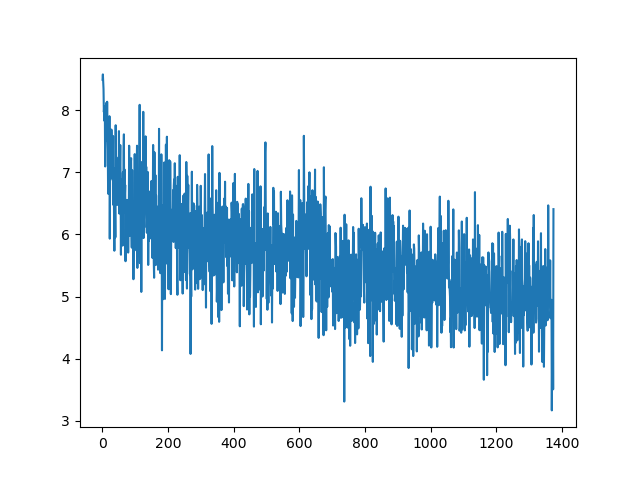
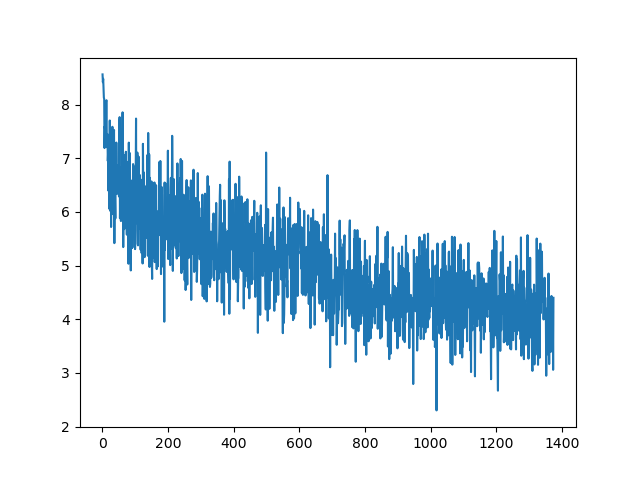
tmp

diff --git a/run_cite.py b/run_cite.py
@@ -46,7 +46,8 @@ def parse_args():
     parser.add_argument('--dataset', type=str, default='AASC',choices=['AASC','PeerRead'],help="AASC or PeerRead")
     parser.add_argument('--batch_size', type=int, default=16, help="batch size")
     parser.add_argument('--frequency', type=int, default=5, help="frequency to remove rare entity")
-    parser.add_argument('--lr', type=float, default=8e-5, help="learning rate")
+    parser.add_argument('--lr', type=float, default=5e-5, help="learning rate")
+    parser.add_argument('--gamma', type=float, default=0.8, help="gamma for StructureAwareCrossEntropy")
     parser.add_argument('--epoch', type=int, default=5, help="number of epochs")
     parser.add_argument('--WINDOW_SIZE', type=int, default=125,choices=[125,250], help="the length of context length")
     parser.add_argument('--MAX_LEN', type=int, default=256,choices=[256,512], help="MAX length of the input")
@@ -358,13 +359,13 @@ def main():
     
     # load parameters
     if args.pretrained_model == "scibert":
-        model = PTBCN.from_pretrained(settings.pretrained_scibert_path,num_ent=len(ent_vocab),MAX_LEN=args.MAX_LEN,final_layer=args.final_layer,loss_type=args.loss_type,adj=adj)
+        model = PTBCN.from_pretrained(settings.pretrained_scibert_path,num_ent=len(ent_vocab),MAX_LEN=args.MAX_LEN,final_layer=args.final_layer,loss_type=args.loss_type,adj=adj,gamma=args.gamma)
     elif args.pretrained_model == "bert":
-        model = PTBCN.from_pretrained('bert-base-uncased',num_ent=len(ent_vocab),MAX_LEN=args.MAX_LEN,final_layer=args.final_layer,loss_type=args.loss_type,adj=adj)
+        model = PTBCN.from_pretrained('bert-base-uncased',num_ent=len(ent_vocab),MAX_LEN=args.MAX_LEN,final_layer=args.final_layer,loss_type=args.loss_type,adj=adj,gamma=args.gamma)
     else:
-        model = PTBCN.from_pretrained('bert-base-uncased',num_ent=len(ent_vocab),MAX_LEN=args.MAX_LEN,final_layer=args.final_layer,loss_type=args.loss_type,adj=adj)
-        for param in model.parameters():
-            nn.init.uniform_(param,a=0.0,b=0.1)
+        model = PTBCN.from_pretrained('bert-base-uncased',num_ent=len(ent_vocab),MAX_LEN=args.MAX_LEN,final_layer=args.final_layer,loss_type=args.loss_type,adj=adj,gamma=args.gamma)
+        for i,param in enumerate(model.parameters()):
+            nn.init.normal_(param,mean=0.0,std=0.2)
     model.change_type_embeddings()
     model.cuda()
     model.train()
@@ -381,9 +382,12 @@ def main():
     scheduler = optim.lr_scheduler.StepLR(optimizer, step_size=1, gamma=1.0)
 
     #model_name = "model_"+"epoch"+str(args.epoch)+"_batchsize"+str(args.batch_size)+"_learningrate"+str(args.lr)+"_data"+str(args.dataset)+"_WINDOWSIZE"+str(args.WINDOW_SIZE)+"_MAXLEN"+str(args.MAX_LEN)+"_pretrainedmodel"+str(args.pretrained_model)+"_"+args.mask_type+"_"+args.final_layer+"_"+args.loss_type+".bin"
-    model_name = "model_"+"epoch"+str(args.epoch)+"_batchsize"+str(args.batch_size)+"_learningrate"+str(args.lr)+"_data"+str(args.dataset)+"_WINDOWSIZE"+str(args.WINDOW_SIZE)+"_MAXLEN"+str(args.MAX_LEN)+"_pretrainedmodel"+str(args.pretrained_model)+"_"+args.mask_type+"_"+args.final_layer+"_"+args.loss_type+"_number1.bin"
+    model_name = "model_"+"epoch"+str(args.epoch)+"_batchsize"+str(args.batch_size)+"_learningrate"+str(args.lr)+"_data"+str(args.dataset)+"_WINDOWSIZE"+str(args.WINDOW_SIZE)+"_MAXLEN"+str(args.MAX_LEN)+"_pretrainedmodel"+str(args.pretrained_model)+"_"+args.mask_type+"_"+args.final_layer+"_"+args.loss_type+"_number5.bin"
     pretrained_model_path = os.path.join(settings.model_path,model_name)
     print(model_name)
+    if args.loss_type == "StructureAwareCrossEntropy":
+        print("StructureAwareCrossEntropyLoss: gamma")
+        print(args.gamma)
     print("train start")
     if args.train:
         losses = []
@@ -410,14 +414,14 @@ def main():
             if epoch % 5 == 0 or epoch == args.epoch:
                 #save model
                 #model_name = "model_"+"epoch"+str(epoch)+"_batchsize"+str(args.batch_size)+"_learningrate"+str(args.lr)+"_data"+str(args.dataset)+"_WINDOWSIZE"+str(args.WINDOW_SIZE)+"_MAXLEN"+str(args.MAX_LEN)+"_pretrainedmodel"+str(args.pretrained_model)+"_"+args.mask_type+"_"+args.final_layer+"_"+args.loss_type+".bin"
-                model_name = "model_"+"epoch"+str(epoch)+"_batchsize"+str(args.batch_size)+"_learningrate"+str(args.lr)+"_data"+str(args.dataset)+"_WINDOWSIZE"+str(args.WINDOW_SIZE)+"_MAXLEN"+str(args.MAX_LEN)+"_pretrainedmodel"+str(args.pretrained_model)+"_"+args.mask_type+"_"+args.final_layer+"_"+args.loss_type+"_number1.bin"
+                model_name = "model_"+"epoch"+str(epoch)+"_batchsize"+str(args.batch_size)+"_learningrate"+str(args.lr)+"_data"+str(args.dataset)+"_WINDOWSIZE"+str(args.WINDOW_SIZE)+"_MAXLEN"+str(args.MAX_LEN)+"_pretrainedmodel"+str(args.pretrained_model)+"_"+args.mask_type+"_"+args.final_layer+"_"+args.loss_type+"_number5.bin"
                 torch.save(model.state_dict(),os.path.join(settings.model_path,model_name))
     print("train end")
     if args.predict:
         for i in range(1,args.epoch//5+1):
             epoch = i*5
             #model_name = "model_"+"epoch"+str(epoch)+"_batchsize"+str(args.batch_size)+"_learningrate"+str(args.lr)+"_data"+str(args.dataset)+"_WINDOWSIZE"+str(args.WINDOW_SIZE)+"_MAXLEN"+str(args.MAX_LEN)+"_pretrainedmodel"+str(args.pretrained_model)+"_"+args.mask_type+"_"+args.final_layer+"_"+args.loss_type+".bin"
-            model_name = "model_"+"epoch"+str(epoch)+"_batchsize"+str(args.batch_size)+"_learningrate"+str(args.lr)+"_data"+str(args.dataset)+"_WINDOWSIZE"+str(args.WINDOW_SIZE)+"_MAXLEN"+str(args.MAX_LEN)+"_pretrainedmodel"+str(args.pretrained_model)+"_"+args.mask_type+"_"+args.final_layer+"_"+args.loss_type+"_number1.bin"
+            model_name = "model_"+"epoch"+str(epoch)+"_batchsize"+str(args.batch_size)+"_learningrate"+str(args.lr)+"_data"+str(args.dataset)+"_WINDOWSIZE"+str(args.WINDOW_SIZE)+"_MAXLEN"+str(args.MAX_LEN)+"_pretrainedmodel"+str(args.pretrained_model)+"_"+args.mask_type+"_"+args.final_layer+"_"+args.loss_type+"_number5.bin"
             model.load_state_dict(torch.load(os.path.join(settings.model_path,model_name)))
             model.eval()
             #save_embeddings(model,ent_vocab,args.MAX_LEN,args.WINDOW_SIZE)

diff --git a/load_node_classification.py b/load_node_classification.py
@@ -130,8 +130,11 @@ def load_raw_data(args):
     return X_train,y_train,X_test,y_test
 
 #convert each node into input_id
-def convert_data(datas,ent_vocab,MAX_LEN,WINDOW_SIZE):
-    tokenizer =  BertTokenizer.from_pretrained(settings.pretrained_scibert_path, do_lower_case =False)
+def convert_data(args,datas,ent_vocab,MAX_LEN,WINDOW_SIZE):
+    if args.pretrained_model == "scibert":
+        tokenizer =  BertTokenizer.from_pretrained(settings.pretrained_scibert_path, do_lower_case =False)
+    else:
+        tokenizer =  BertTokenizer.from_pretrained("bert-base-uncased", do_lower_case =False)
     converted_datas = []
     converted_elements = []
     for i,elements in enumerate(datas):
@@ -269,14 +272,14 @@ def load_data_SVM_with_context(args,model,ent_vocab,MAX_LEN,WINDOW_SIZE):
         with open(converted_path_train) as f:
             X_train = json.load(f)
     else:
-        X_train = convert_data(X_train,ent_vocab,MAX_LEN,WINDOW_SIZE)
+        X_train = convert_data(args,X_train,ent_vocab,MAX_LEN,WINDOW_SIZE)
         with open(converted_path_train,"w") as f:
             json.dump(X_train,f)
     if os.path.exists(converted_path_test):
         with open(converted_path_test) as f:
             X_test = json.load(f)
     else:
-        X_test = convert_data(X_test,ent_vocab,MAX_LEN,WINDOW_SIZE)
+        X_test = convert_data(args,X_test,ent_vocab,MAX_LEN,WINDOW_SIZE)
         with open(converted_path_test,"w") as f:
             json.dump(X_test,f)
     X_train = get_embeddings(model,X_train,MAX_LEN,WINDOW_SIZE)
@@ -323,14 +326,14 @@ def load_data_SVM_with_context_all_layer(model,ent_vocab,MAX_LEN,WINDOW_SIZE):
         with open(converted_path_train) as f:
             X_train = json.load(f)
     else:
-        X_train = convert_data(X_train,ent_vocab,MAX_LEN,WINDOW_SIZE)
+        X_train = convert_data(args,X_train,ent_vocab,MAX_LEN,WINDOW_SIZE)
         with open(converted_path_train,"w") as f:
             json.dump(X_train,f)
     if os.path.exists(converted_path_test):
         with open(converted_path_test) as f:
             X_test = json.load(f)
     else:
-        X_test = convert_data(X_test,ent_vocab,MAX_LEN,WINDOW_SIZE)
+        X_test = convert_data(args,X_test,ent_vocab,MAX_LEN,WINDOW_SIZE)
         with open(converted_path_test,"w") as f:
             json.dump(X_test,f)
     X_trains = get_embeddings_all_layer(model,X_train,MAX_LEN,WINDOW_SIZE)

diff --git a/model.py b/model.py
@@ -10,7 +10,7 @@ import numpy as np
 class PTBCN(BertForMaskedLM):
     config_class = BertConfig
     base_model_prefix = "bert"
-    def __init__(self, config, num_ent, MAX_LEN, final_layer, loss_type, adj):
+    def __init__(self, config, num_ent, MAX_LEN, final_layer, loss_type, adj, gamma):
         super().__init__(config)
         if final_layer == "feedforward":
             self.ent_lm_head = EntLMHead(config,num_ent)
@@ -21,7 +21,7 @@ class PTBCN(BertForMaskedLM):
         self.MAX_LEN = MAX_LEN
         self.num_ent = num_ent
         self.adj = adj
-        self.gamma = 0.8
+        self.gamma = gamma
 
     def change_type_embeddings(self):
         self.config.type_vocab_size = 2
